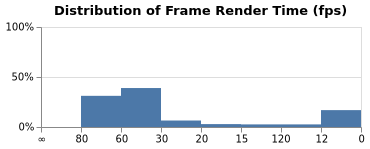
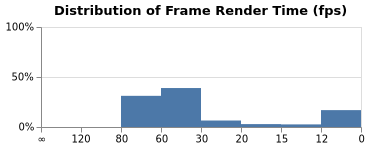
fix: preserve primary sort with secondary channels
Prevent x2 and y2 domain contributions from supplying their own default sort to the shared primary scale. This restores explicit sort: null behavior and the original waterfall and nonlinear histogram layouts while leaving nested offset sorting unchanged.

diff --git a/test/compile/compile.test.ts b/test/compile/compile.test.ts
@@ -45,6 +45,22 @@ describe('compile/compile', () => {
     expect(spec.marks[0].encode.update.fill).toEqual({field: 'directColor'});
   });
 
+  it('should preserve sort null when a shared position scale includes a secondary channel', () => {
+    const {spec} = compile({
+      data: {values: [{label: 'A', next: 'B', value: 1}]},
+      encoding: {
+        x: {field: 'label', type: 'ordinal', sort: null},
+      },
+      layer: [
+        {mark: 'bar', encoding: {y: {field: 'value', type: 'quantitative'}}},
+        {mark: 'rule', encoding: {x2: {field: 'next'}, y: {field: 'value', type: 'quantitative'}}},
+      ],
+    });
+
+    const xScale = spec.scales.find((scale) => scale.name === 'x');
+    expect(xScale.domain).not.toHaveProperty('sort');
+  });
+
   it('should return a spec with specified top-level properties, size signals, data and marks', () => {
     const {spec} = compile({
       padding: 123,

diff --git a/test/compile/scale/domain.test.ts b/test/compile/scale/domain.test.ts
@@ -42,6 +42,21 @@ describe('compile/scale', () => {
       ]);
     });
 
+    it('should not add a sort from a secondary channel', () => {
+      const model = parseUnitModel({
+        mark: 'rule',
+        encoding: {
+          x: {field: 'start', type: 'ordinal', sort: null},
+          x2: {field: 'end'},
+        },
+      });
+
+      expect(testParseDomainForChannel(model, 'x')).toEqual([
+        {data: 'main', field: 'start'},
+        {data: 'main', field: 'end'},
+      ]);
+    });
+
     it('should have correct domain unionWith', () => {
       const model = parseUnitModel({
         mark: 'point',

diff --git a/src/compile/scale/domain.ts b/src/compile/scale/domain.ts
@@ -292,9 +292,11 @@ function parseSingleChannelDomain(
     ]);
   }
 
-  const sort: undefined | true | VgSortField = isFieldDef(fieldOrDatumDef)
-    ? domainSort(model, channel as ScaleKey, scaleType)
-    : undefined;
+  // Secondary channels contribute values to the primary scale domain but inherit its sort.
+  const sort: undefined | true | VgSortField =
+    channel !== 'x2' && channel !== 'y2' && isFieldDef(fieldOrDatumDef)
+      ? domainSort(model, channel as ScaleKey, scaleType)
+      : undefined;
 
   if (isDatumDef(fieldOrDatumDef)) {
     const d = convertDomainIfItIsDateTime([fieldOrDatumDef.datum], type, timeUnit);